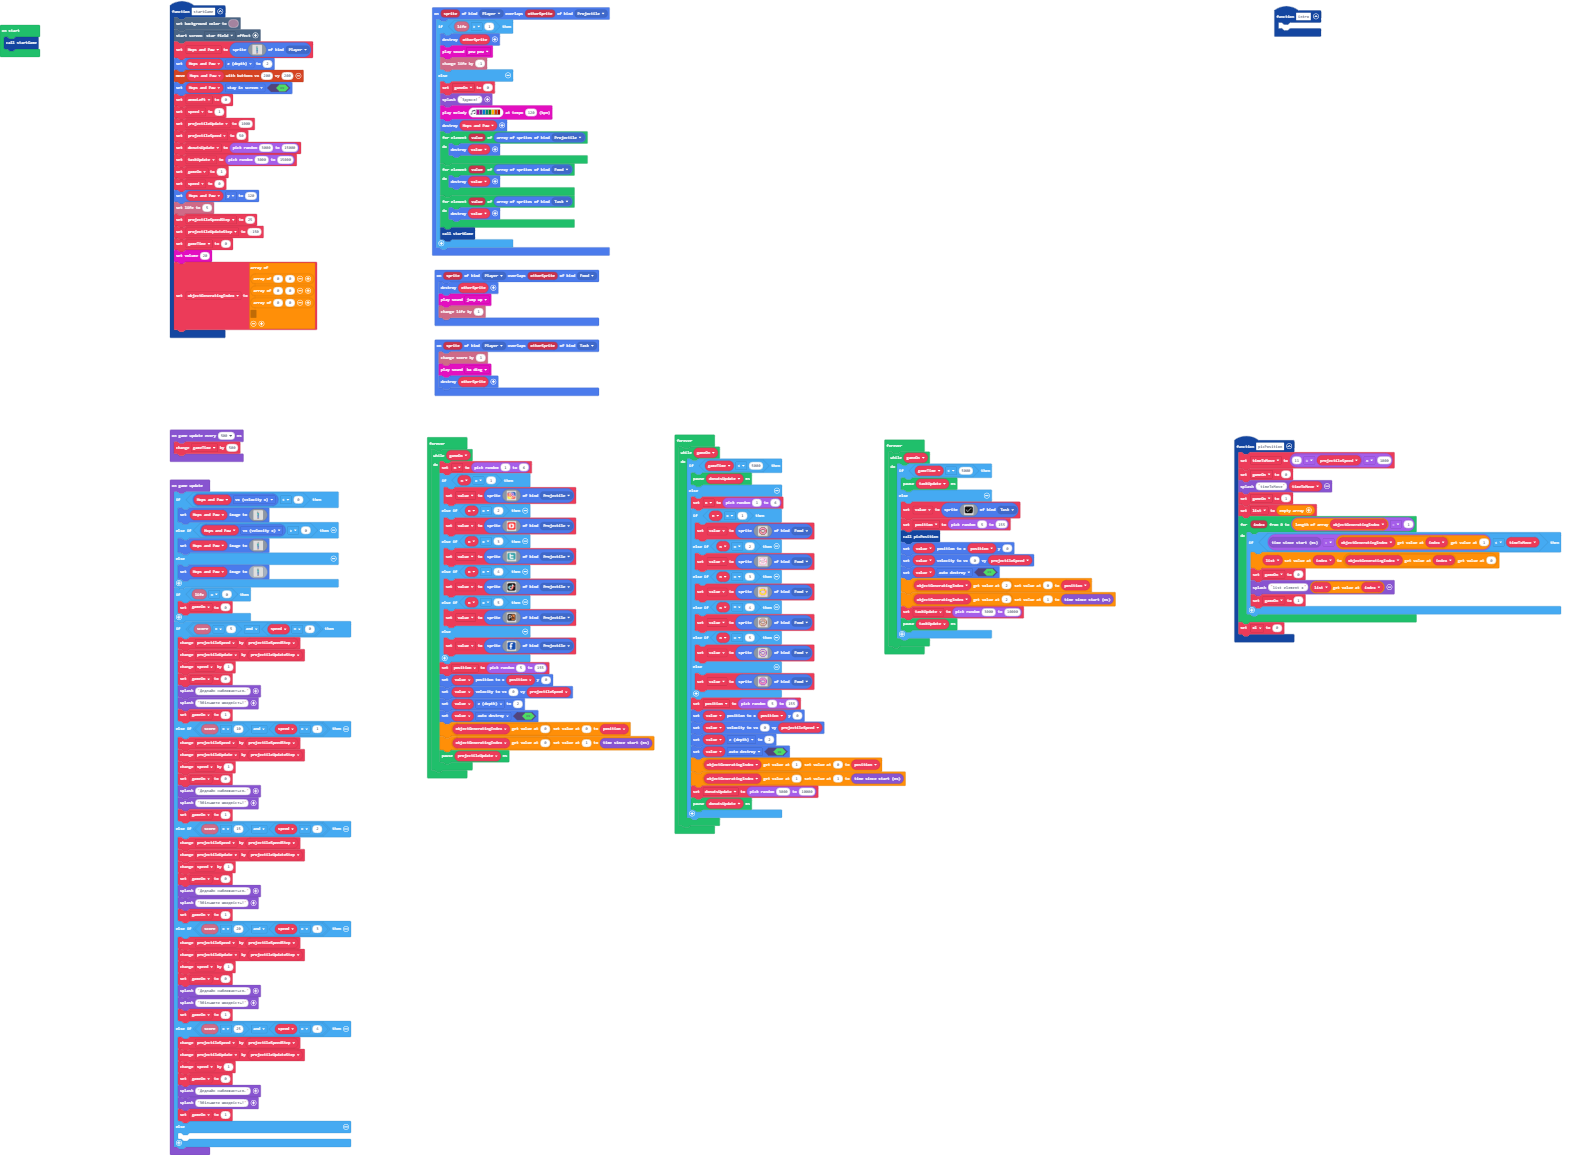
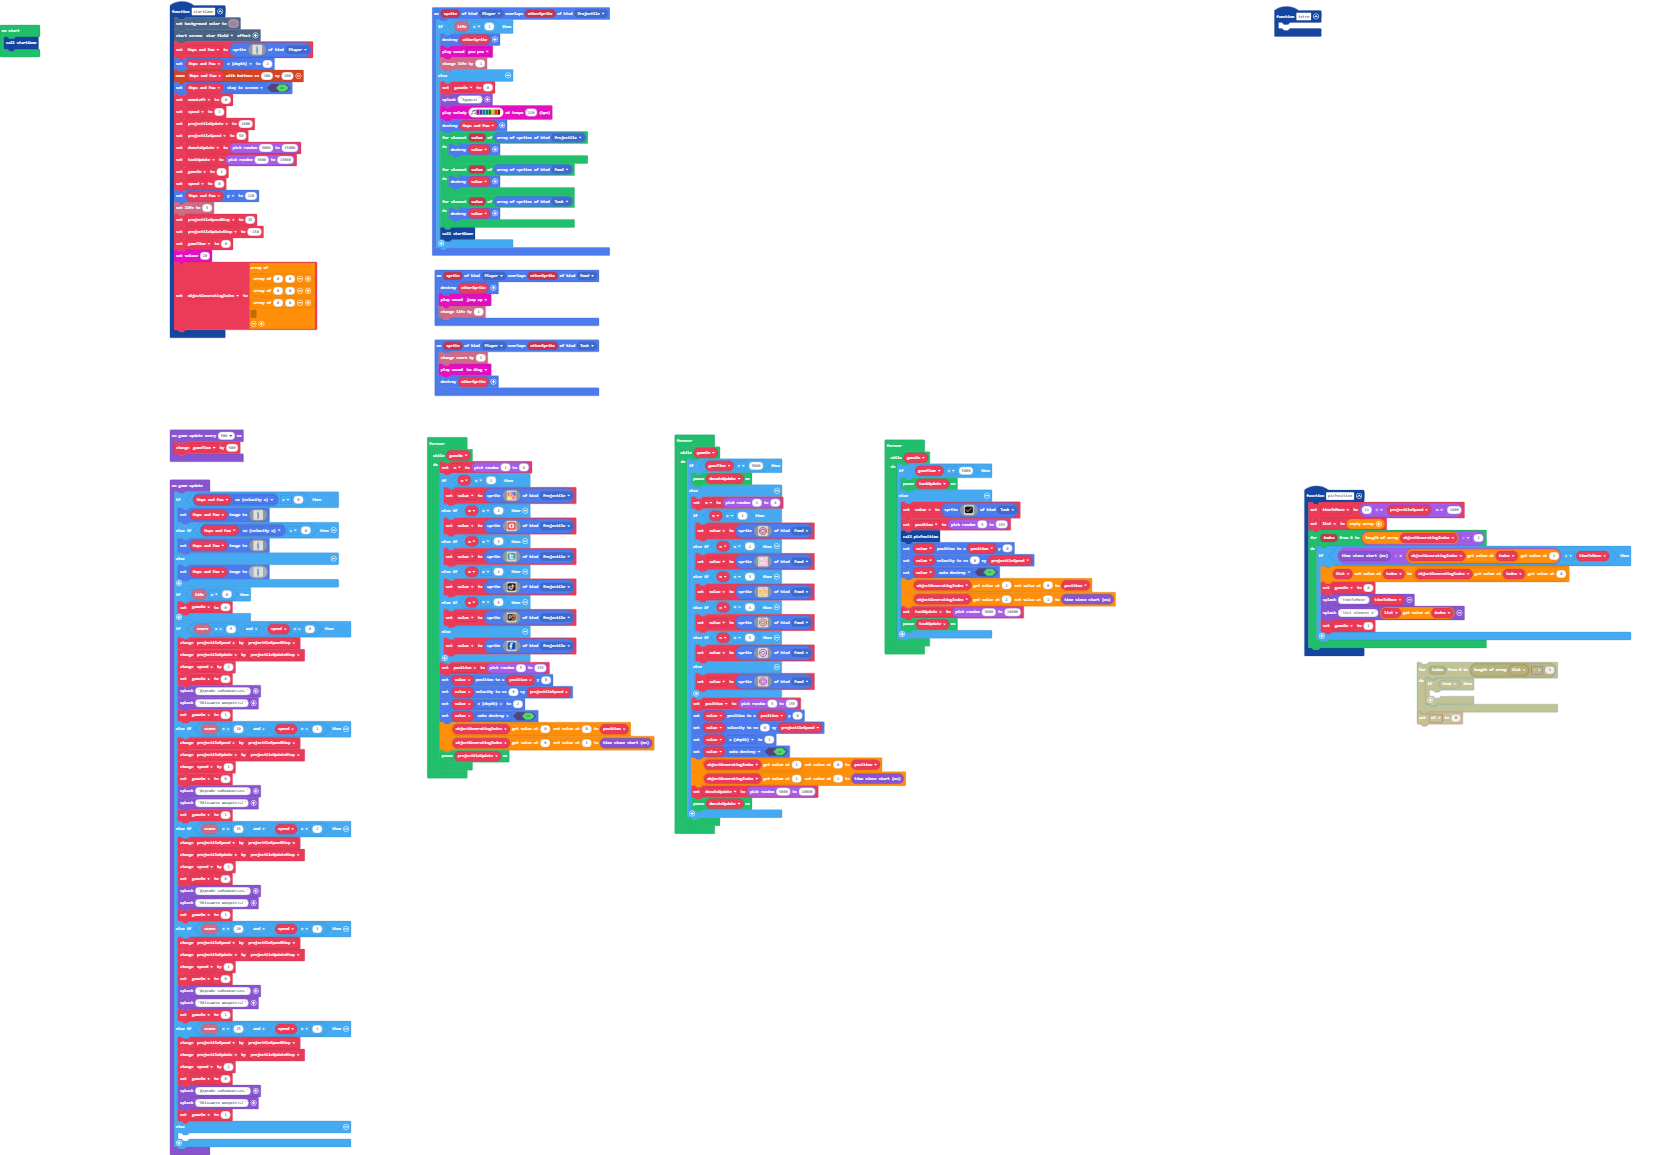
Update main.blocks, main.ts

diff --git a/main.ts b/main.ts
@@ -63,19 +63,16 @@ sprites.onOverlap(SpriteKind.Player, SpriteKind.Task, function (sprite, otherSpr
 })
 function picPosition () {
     timeToMove = 11 / projectileSpeed * 1000
-    gameOn = 0
-    game.splash("timeToMove", timeToMove)
-    gameOn = 1
     list = []
     for (let index = 0; index <= objectGeneratingIndex.length - 1; index++) {
         if (game.runtime() - objectGeneratingIndex[index][1] < timeToMove) {
             list[index] = objectGeneratingIndex[index][0]
             gameOn = 0
+            game.splash("timeToMove", timeToMove)
             game.splash("list element x", list[index])
             gameOn = 1
         }
     }
-    x1 = 0
 }
 sprites.onOverlap(SpriteKind.Player, SpriteKind.Food, function (sprite, otherSprite) {
     otherSprite.destroy()
@@ -85,7 +82,6 @@ sprites.onOverlap(SpriteKind.Player, SpriteKind.Food, function (sprite, otherSpr
 let position = 0
 let value: Sprite = null
 let n = 0
-let x1 = 0
 let list: number[] = []
 let timeToMove = 0
 let objectGeneratingIndex: number[][] = []
